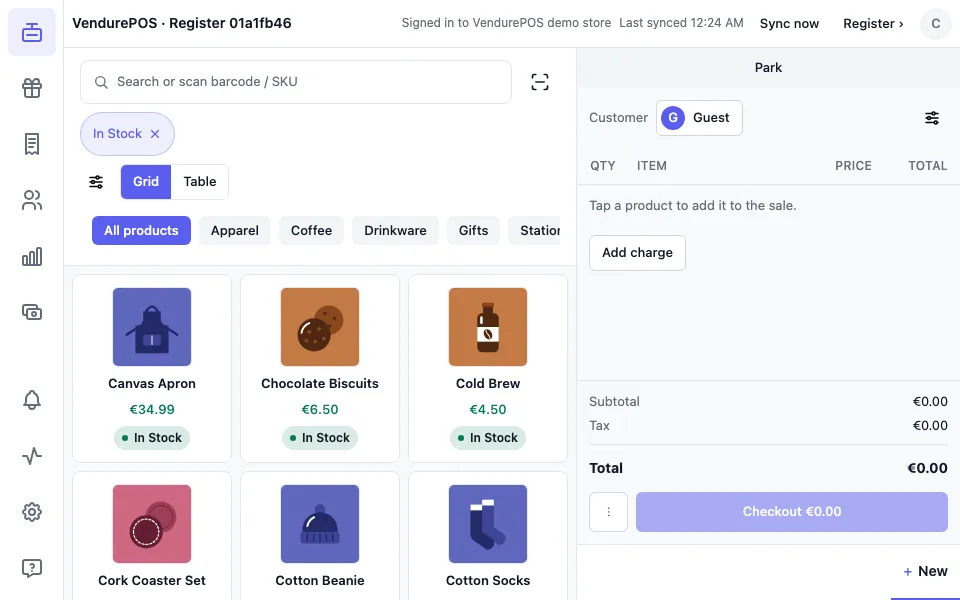
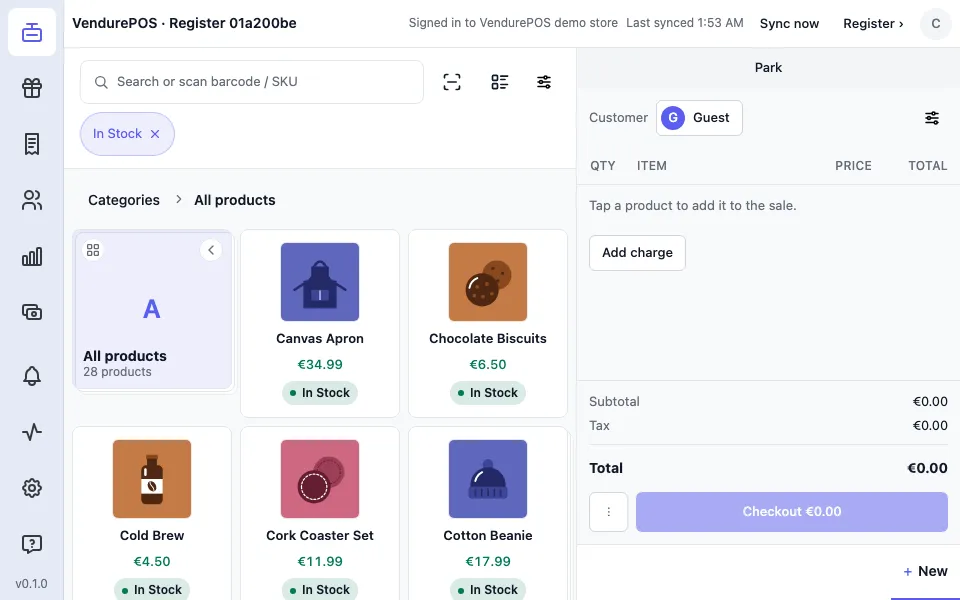
feat(pos): Product settings on the search row via Catalogue searchAccessory, as v2 (1.xs)

diff --git a/apps/pos/e2e/demo.spec.ts b/apps/pos/e2e/demo.spec.ts
@@ -3993,6 +3993,12 @@ test("the product pane's settings button opens Settings › General at the Produ
   await expectSignedIn(page);
   await openRegister(page);
   await expect(page.getByTestId('product-settings-open')).toHaveAttribute('aria-label', 'Product settings');
+  // v2's search-row placement (CHECKLIST 1.xs): the button's centre sits within the search field's height.
+  const settingsBox = (await page.getByTestId('product-settings-open').boundingBox())!;
+  const searchBox = (await page.getByTestId('catalogue-search').boundingBox())!;
+  expect(settingsBox.y + settingsBox.height / 2).toBeGreaterThanOrEqual(searchBox.y);
+  expect(settingsBox.y + settingsBox.height / 2).toBeLessThanOrEqual(searchBox.y + searchBox.height);
+  await page.screenshot({ path: test.info().outputPath('02f-product-settings-entry-vendurepos.png') });
   await page.getByTestId('product-settings-open').click();
   await expect(page.getByTestId('settings-section-general')).toHaveAttribute('aria-selected', 'true');
   await expect(page.getByTestId('tile-size')).toBeInViewport();

diff --git a/apps/pos/app/index.tsx b/apps/pos/app/index.tsx
@@ -756,7 +756,7 @@ function Sale({
           onSelect={add}
           cartLines={sale.order.lineItems}
           statusText={error ?? (lastSyncedAt ? undefined : 'Syncing catalogue…')}
-          statusAccessory={<IconButton testID="product-settings-open" variant="ghost" size="sm" accessibilityLabel="Product settings" onPress={() => onSettingsCard('products')}><SlidersIcon size={18} /></IconButton>}
+          searchAccessory={<IconButton testID="product-settings-open" variant="ghost" size="sm" accessibilityLabel="Product settings" onPress={() => onSettingsCard('products')}><SlidersIcon size={18} /></IconButton>}
         />
       </View>
       {wide && stage.kind === 'tender' ? (
